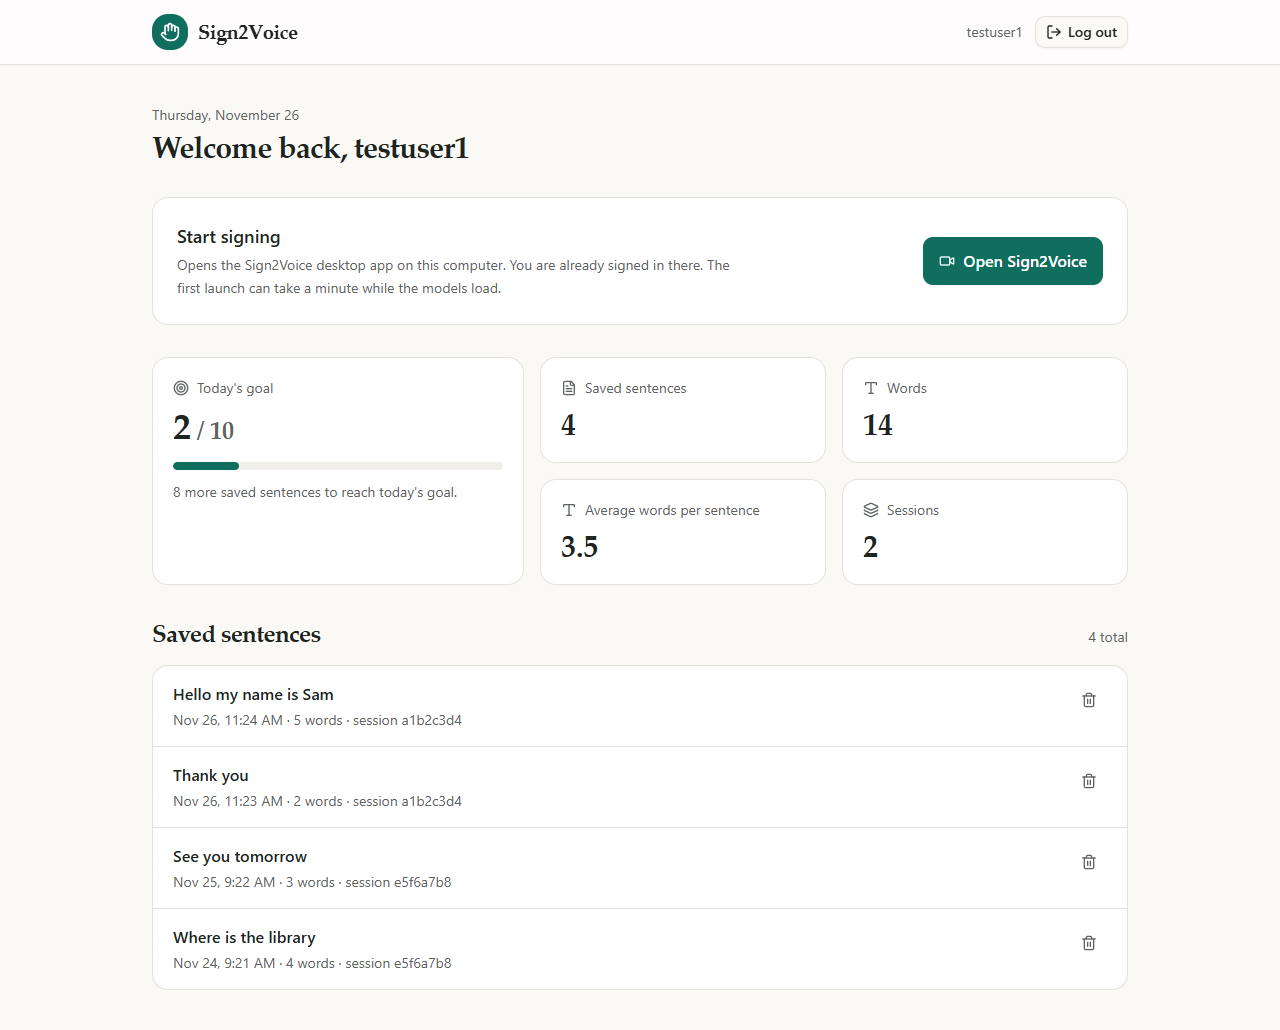
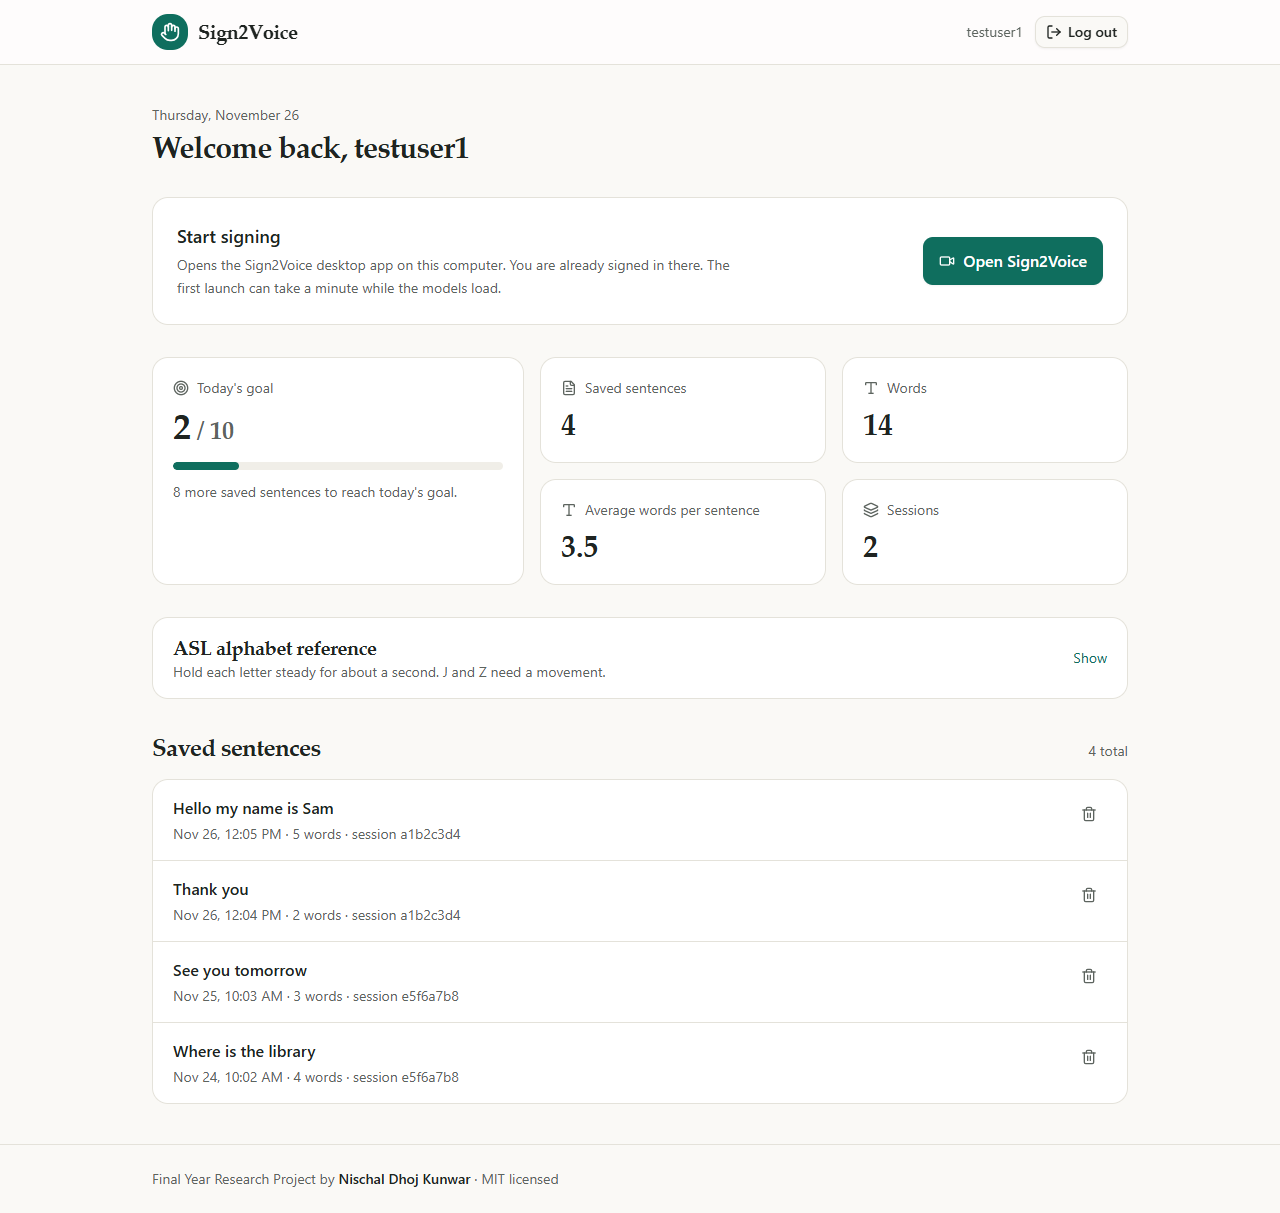
Add ASL alphabet reference (public domain), credit author and Final Year Research Project, collapse chart on dashboard

diff --git a/web/Client/src/pages/AuthPage.jsx b/web/Client/src/pages/AuthPage.jsx
@@ -141,6 +141,9 @@ export default function AuthPage({ setIsAuthenticated }) {
             <a href="#how" className="hidden rounded-md px-3 py-2 text-muted-foreground hover:text-foreground sm:block">
               How it works
             </a>
+            <a href="#try" className="hidden rounded-md px-3 py-2 text-muted-foreground hover:text-foreground sm:block">
+              Try it
+            </a>
             <a href="#limits" className="hidden rounded-md px-3 py-2 text-muted-foreground hover:text-foreground sm:block">
               Accuracy
             </a>
@@ -159,13 +162,13 @@ export default function AuthPage({ setIsAuthenticated }) {
       <main>
         <section className="mx-auto grid max-w-6xl gap-12 px-6 py-14 lg:grid-cols-[1.1fr_1fr] lg:items-start lg:py-20">
           <div className="flex flex-col lg:pt-10">
-            <p className="mb-4 text-sm font-medium uppercase tracking-wider text-primary">ASL fingerspelling to text and speech</p>
+            <p className="mb-4 text-sm font-medium uppercase tracking-wider text-primary">Final Year Research Project</p>
             <h1 className="font-serif text-4xl font-semibold leading-[1.1] tracking-tight text-balance sm:text-5xl">
               Spell with your hands. Hear it spoken.
             </h1>
             <p className="mt-5 max-w-xl text-lg leading-relaxed text-muted-foreground text-pretty">
               Sign2Voice reads fingerspelled letters from your webcam, builds the sentence, suggests the next word and
-              reads it aloud. It is a student research project, built to be measured honestly.
+              reads it aloud. It is a Final Year Research Project, built to be measured honestly.
             </p>
             <ul className="mt-8 space-y-4">
               {[
@@ -321,7 +324,43 @@ export default function AuthPage({ setIsAuthenticated }) {
           </div>
         </section>
 
-        <section id="limits" className="mx-auto max-w-6xl px-6 py-16">
+        <section id="try" className="mx-auto grid max-w-6xl gap-10 px-6 py-16 md:grid-cols-[1fr_1.1fr] md:items-start">
+          <div>
+            <h2 className="font-serif text-3xl font-semibold tracking-tight">Try it yourself</h2>
+            <p className="mt-3 text-muted-foreground">
+              New to fingerspelling? Use this chart to practise. Sign into the app, open Sign2Voice, and spell a word letter by
+              letter in front of your webcam.
+            </p>
+            <ul className="mt-5 space-y-2 text-sm text-muted-foreground">
+              <li>Hold each letter steady for about a second so it is recognised.</li>
+              <li>Keep your whole hand in view, with a plain background and good light.</li>
+              <li>J and Z involve a movement (shown by the arrows) and are the least reliable letters.</li>
+            </ul>
+          </div>
+          <figure className="rounded-2xl border border-border bg-white p-4">
+            <img
+              src="/asl-alphabet.jpg"
+              alt="The American Sign Language manual alphabet, letters A to Z, shown as photographs of hand shapes"
+              className="mx-auto h-auto w-full max-w-md rounded-lg"
+              loading="lazy"
+            />
+            <figcaption className="mt-3 text-center text-xs text-muted-foreground">
+              The American manual alphabet. Image by Cwterp,{" "}
+              <a
+                href="https://commons.wikimedia.org/wiki/File:ABC_pict.png"
+                target="_blank"
+                rel="noreferrer"
+                className="underline underline-offset-2 hover:text-foreground"
+              >
+                public domain, via Wikimedia Commons
+              </a>
+              .
+            </figcaption>
+          </figure>
+        </section>
+
+        <section id="limits" className="border-t border-border bg-white">
+          <div className="mx-auto max-w-6xl px-6 py-16">
           <h2 className="font-serif text-3xl font-semibold tracking-tight">How accurate is it?</h2>
           <p className="mt-3 max-w-2xl text-muted-foreground">
             It depends heavily on who is signing and on the camera. These are measured numbers for the model used in this
@@ -348,12 +387,16 @@ export default function AuthPage({ setIsAuthenticated }) {
             </a>
             .
           </p>
+          </div>
         </section>
       </main>
 
       <footer className="border-t border-border">
         <div className="mx-auto flex max-w-6xl flex-wrap items-center justify-between gap-3 px-6 py-6 text-sm text-muted-foreground">
-          <span>&copy; {new Date().getFullYear()} Sign2Voice. MIT licensed.</span>
+          <span>
+            Final Year Research Project by <span className="font-medium text-foreground">Nischal Dhoj Kunwar</span> &middot; &copy;{" "}
+            {new Date().getFullYear()} Sign2Voice &middot; MIT licensed
+          </span>
           <span className="flex items-center gap-4">
             <a href={REPO_URL} target="_blank" rel="noreferrer" className="hover:text-foreground">
               Source code

diff --git a/web/Client/src/pages/Dashboard.jsx b/web/Client/src/pages/Dashboard.jsx
@@ -237,6 +237,37 @@ export default function Dashboard({ setIsAuthenticated }) {
           ))}
         </section>
 
+        <details className="group rounded-xl border border-border bg-card">
+          <summary className="flex cursor-pointer list-none items-center justify-between px-5 py-4">
+            <span>
+              <span className="block font-serif text-xl font-semibold tracking-tight">ASL alphabet reference</span>
+              <span className="block text-sm text-muted-foreground">Hold each letter steady for about a second. J and Z need a movement.</span>
+            </span>
+            <span className="text-sm text-primary group-open:hidden">Show</span>
+            <span className="hidden text-sm text-primary group-open:inline">Hide</span>
+          </summary>
+          <div className="border-t border-border p-4">
+            <img
+              src="/asl-alphabet.jpg"
+              alt="The American Sign Language manual alphabet, letters A to Z, shown as photographs of hand shapes"
+              className="mx-auto h-auto w-full max-w-md rounded-lg"
+              loading="lazy"
+            />
+            <p className="mt-3 text-center text-xs text-muted-foreground">
+              Image by Cwterp,{" "}
+              <a
+                href="https://commons.wikimedia.org/wiki/File:ABC_pict.png"
+                target="_blank"
+                rel="noreferrer"
+                className="underline underline-offset-2 hover:text-foreground"
+              >
+                public domain, via Wikimedia Commons
+              </a>
+              .
+            </p>
+          </div>
+        </details>
+
         <section>
           <div className="mb-4 flex items-baseline justify-between">
             <h2 className="font-serif text-2xl font-semibold tracking-tight">Saved sentences</h2>
@@ -278,6 +309,12 @@ export default function Dashboard({ setIsAuthenticated }) {
           )}
         </section>
       </main>
+
+      <footer className="border-t border-border">
+        <div className="mx-auto max-w-5xl px-6 py-6 text-sm text-muted-foreground">
+          Final Year Research Project by <span className="font-medium text-foreground">Nischal Dhoj Kunwar</span> &middot; MIT licensed
+        </div>
+      </footer>
     </div>
   )
 }

diff --git a/web/Client/index.html b/web/Client/index.html
@@ -3,7 +3,7 @@
   <head>
     <meta charset="UTF-8" />
     <link rel="icon" type="image/svg+xml" href="/favicon.svg" />
-    <meta name="description" content="Sign2Voice: ASL fingerspelling to text and speech, with an honest evaluation." />
+    <meta name="description" content="Sign2Voice: a Final Year Research Project on ASL fingerspelling to text and speech, with an honest evaluation." />
     <meta name="theme-color" content="#faf9f6" />
     <meta name="viewport" content="width=device-width, initial-scale=1.0" />
     <title>Sign2Voice</title>

diff --git a/README.md b/README.md
@@ -1,5 +1,7 @@
 # Sign2Voice: Voice For All
 
+*Final Year Research Project by Nischal Dhoj Kunwar.*
+
 Real-time American Sign Language (ASL) fingerspelling recognition. A webcam frame goes through MediaPipe Hands to get
 21 hand landmarks, a small 1D-CNN classifies the letter, and the text is spoken aloud. It ships as a desktop GUI
 (Tkinter) and a MERN web app for accounts and saved transcripts.
@@ -17,6 +19,9 @@ Real-time American Sign Language (ASL) fingerspelling recognition. A webcam fram
 | MediaPipe Hands (landmark detector) | Pretrained by Google, used unmodified |
 | distilgpt2 (word suggestions) | Pretrained by Hugging Face, used unmodified, not evaluated |
 | Text-to-speech | `pyttsx3` (system voices) |
+
+ASL chart shown in the web app: *The American manual alphabet* by Cwterp, public domain, via
+[Wikimedia Commons](https://commons.wikimedia.org/wiki/File:ABC_pict.png).
 
 Dataset: Kaggle [ASL Alphabet](https://www.kaggle.com/datasets/grassknoted/asl-alphabet) (grassknoted), 87,000 images,
 3,000 per class. 28 classes are used (A-Z, `space`, `del`); `nothing` has too few detected hands and is dropped.
